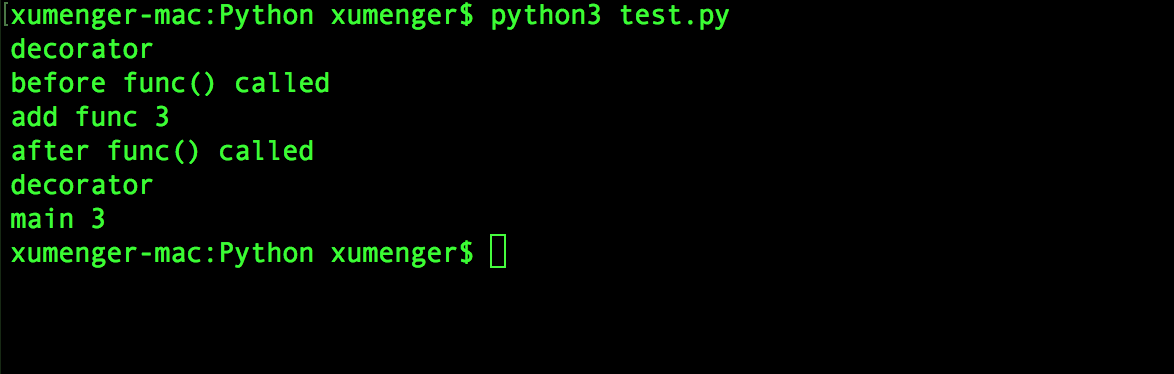
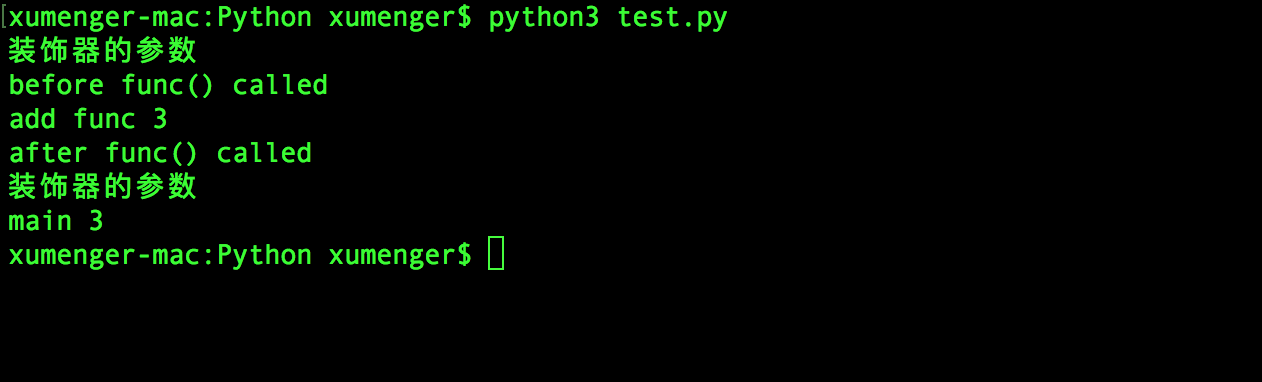
python java

Changed region(s): [[0.0, 0.0, 0.644, 0.6176], [0.0, 0.6176, 0.4293, 0.7353]]

diff --git a/_posts/2018-10-13-python-decorator-20181013.md b/_posts/2018-10-13-python-decorator-20181013.md
@@ -235,7 +235,7 @@ def decorator(arg):
         return __decorator
     return _decorator
 
-@decorator("decorator")
+@decorator("装饰器的参数")
 def add(a, b):
     print("add func %d" % (a + b))
     return a + b
